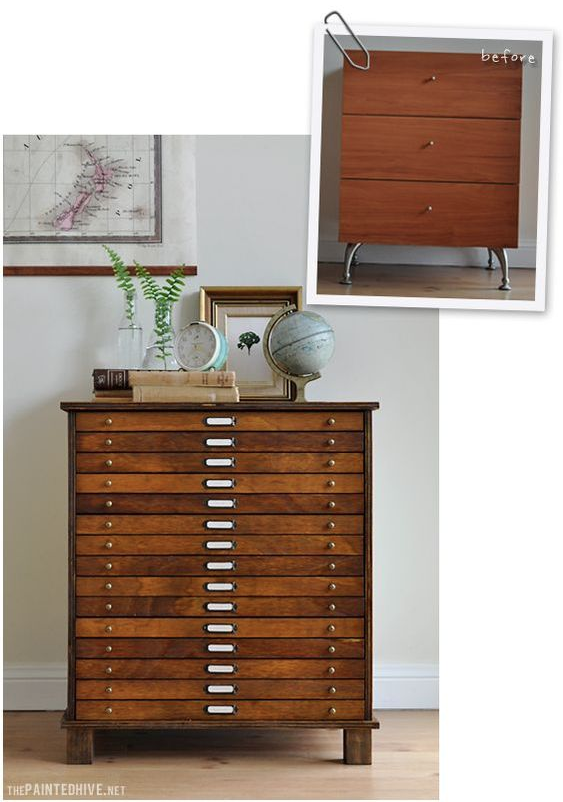
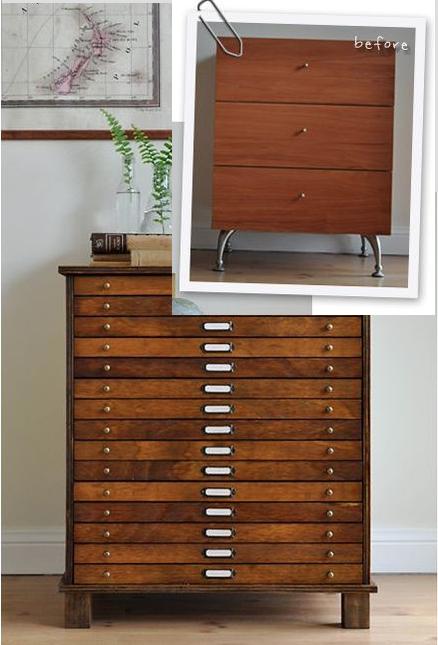
add example
1. add image
2. add link

diff --git a/js/ui.js b/js/ui.js
@@ -17,6 +17,7 @@ Ui.prototype = {
 	init: function(){
 		//example
 		var exampleImage = document.getElementById("exampleImage");
+		var exampleLink = document.getElementById("exampleLink");
 
 		var scope = this;
 
@@ -369,6 +370,8 @@ Ui.prototype = {
 
 			// example
 			exampleImage.src = "images/example/CHAIR_ALIGN_vertical.png";
+			exampleLink.href = "https://read01.com/zh-tw/eL887P.html#.XCRznc8zZBx";
+			exampleLink.text = "Bench";
 			$('.example').show();
 		});
 
@@ -378,6 +381,8 @@ Ui.prototype = {
 
 			// example
 			exampleImage.src = "images/example/CHAIR_ALIGN_horizontal.png";
+			exampleLink.href = "https://read01.com/zh-tw/eL887P.html#.XCRznc8zZBx";
+			exampleLink.text = "Bench";
 			$('.example').show();
 		});
 
@@ -387,6 +392,8 @@ Ui.prototype = {
 
 			// example
 			exampleImage.src = "images/example/CHAIR_ALIGN_flip.png";
+			exampleLink.href = "https://www.pinterest.com/pin/56646907794456800/";
+			exampleLink.text = "Bench";
 			$('.example').show();
 		});
 
@@ -410,6 +417,8 @@ Ui.prototype = {
 
 			// example
 			exampleImage.src = "images/example/CHAIR_ADD_plate.png";
+			exampleLink.href = "https://www.pinterest.com/pin/281543705299914/";
+			exampleLink.text = "Shelf";
 			$('.example').show();
 		});
 
@@ -419,6 +428,8 @@ Ui.prototype = {
 
 			// example
 			exampleImage.src = "images/example/CHAIR_ADD_hook.png";
+			exampleLink.href = "https://read01.com/zh-tw/G4o6aL.html#.XCR4Cc8zZBx";
+			exampleLink.text = "Hook";
 			$('.example').show();
 		});
 
@@ -428,6 +439,8 @@ Ui.prototype = {
 
 			// example
 			exampleImage.src = "images/example/CHAIR_ADD_hang.png";
+			exampleLink.href = "https://www.pinterest.com/pin/566186984387890581/";
+			exampleLink.text = "Swing";
 			$('.example').show();
 		});
 
@@ -438,6 +451,8 @@ Ui.prototype = {
 
 			// example
 			exampleImage.src = "images/example/CHAIR_REBUILD_seat.png";
+			exampleLink.href = "http://www.architectureartdesigns.com/15-most-amazing-before-and-after-chair-makeover-ideas/amp/";
+			exampleLink.text = "Chair";
 			$('.example').show();
 		});
 
@@ -447,6 +462,8 @@ Ui.prototype = {
 
 			// example
 			exampleImage.src = "images/example/CHAIR_REBUILD_backrest.png";
+			exampleLink.href = "http://www.architectureartdesigns.com/15-most-amazing-before-and-after-chair-makeover-ideas/amp/";
+			exampleLink.text = "Chair";
 			$('.example').show();
 		});
 
@@ -456,6 +473,8 @@ Ui.prototype = {
 
 			// example
 			exampleImage.src = "images/example/CHAIR_REBUILD_leg.png";
+			exampleLink.href = "https://www.pinterest.com/pin/83035186854913776/";
+			exampleLink.text = "Office Chair";
 			$('.example').show();
 		});
 
@@ -465,6 +484,8 @@ Ui.prototype = {
 
 			// example
 			exampleImage.src = "images/example/DRESSER_ADD_cutChair.png";
+			exampleLink.href = "http://www.foliver.com/diy/40-awesome-makeovers-clever-ways-with-tutorials-to-repurpose-old-furniture/";
+			exampleLink.text = "Chair";
 			$('.example').show();
 		});
 		$('#operation_dresser_add_add_door').click(function() {
@@ -472,6 +493,8 @@ Ui.prototype = {
 
 			// example
 			exampleImage.src = "images/example/DRESSER_ADD_addDoor.png";
+			exampleLink.href = "https://www.ikeahackers.net/2016/07/nornas-cd-lp-chest.html";
+			exampleLink.text = "Dresser";
 			$('.example').show();
 		});
 		$('#operation_dresser_add_add_leg').click(function() {
@@ -479,6 +502,8 @@ Ui.prototype = {
 
 			// example
 			exampleImage.src = "images/example/DRESSER_ADD_addLeg.png";
+			exampleLink.href = "https://www.ikeahackers.net/2016/12/ivar-grown.html";
+			exampleLink.text = "Dresser";
 			$('.example').show();
 		});
 		$('#operation_dresser_add_add_rod').click(function() {
@@ -486,6 +511,8 @@ Ui.prototype = {
 
 			// example
 			exampleImage.src = "images/example/DRESSER_ADD_addRod1.png";
+			exampleLink.href = "https://www.ikeahackers.net/2016/12/ivar-grown.html";
+			exampleLink.text = "Dresser";
 			$('.example').show();
 		});
 		$('#operation_dresser_add_add_rod_two').click(function() {
@@ -493,6 +520,8 @@ Ui.prototype = {
 
 			// example
 			exampleImage.src = "images/example/DRESSER_ADD_addRod2.png";
+			exampleLink.href = "https://www.ikeahackers.net/2013/10/twin-rasts-in-the-nursery.html";
+			exampleLink.text = "Wardrobe";
 			$('.example').show();
 		});
 		$('#operation_dresser_add_add_spice_rack').click(function() {
@@ -500,6 +529,8 @@ Ui.prototype = {
 
 			// example
 			exampleImage.src = "images/example/DRESSER_ADD_addSpiceRack.png";
+			exampleLink.href = "http://www.foliver.com/diy/40-awesome-makeovers-clever-ways-with-tutorials-to-repurpose-old-furniture/6/";
+			exampleLink.text = "Wardrobe";
 			$('.example').show();
 		});
 		$('#operation_dresser_add_add_drawer').click(function() {
@@ -507,6 +538,8 @@ Ui.prototype = {
 
 			// example
 			exampleImage.src = "images/example/DRESSER_ADD_addDrawer.png";
+			exampleLink.href = "https://www.pinterest.com/pin/397372367099234865/";
+			exampleLink.text = "Dresser";
 			$('.example').show();
 		});
 		$('#operation_dresser_add_remove_drawers').click(function() {
@@ -514,6 +547,8 @@ Ui.prototype = {
 
 			// example
 			exampleImage.src = "images/example/DRESSER_ADD_removeDrawers.png";
+			exampleLink.href = "http://www.foliver.com/diy/40-awesome-makeovers-clever-ways-with-tutorials-to-repurpose-old-furniture/28/";
+			exampleLink.text = "Dresser";
 			$('.example').show();
 		});
 
@@ -523,6 +558,8 @@ Ui.prototype = {
 
 			// example
 			exampleImage.src = "images/example/CABINET_KALLAX_chiar.png";
+			exampleLink.href = "https://lesbricolesdemel.wordpress.com/2016/03/20/inspiration-1-ikea-hack-la-gamme-kallax/";
+			exampleLink.text = "Chair";
 			$('.example').show();
 		});
 
@@ -533,6 +570,8 @@ Ui.prototype = {
 
 			// example
 			exampleImage.src = "images/example/CABINET_KALLAX_bed.png";
+			exampleLink.href = "https://www.pinterest.com/pin/596234438136893984/";
+			exampleLink.text = "Bed";
 			$('.example').show();
 		});
 
@@ -544,6 +583,8 @@ Ui.prototype = {
 
 			// example
 			exampleImage.src = "images/example/CABINET_KALLAX_table.png";
+			exampleLink.href = "https://www.pinterest.com/pin/453385887470070464/";
+			exampleLink.text = "Table";
 			$('.example').show();
 		});
 
@@ -554,6 +595,8 @@ Ui.prototype = {
 
 			// example
 			exampleImage.src = "images/example/TABLE_stack.png";
+			exampleLink.href = "https://www.ikeahackers.net/2015/11/kitchen-tables-converted-canine-condo.html";
+			exampleLink.text = "Shelf";
 			$('.example').show();
 		});
 
@@ -562,6 +605,8 @@ Ui.prototype = {
 
 			// example
 			exampleImage.src = "images/example/TABLE_flipStack.png";
+			exampleLink.href = "https://www.ikeahackers.net/2016/08/complementary-small-lack-entertainment-centre-lack-coffee-table.html";
+			exampleLink.text = "Shelf";
 			$('.example').show();
 		});
 
@@ -570,6 +615,8 @@ Ui.prototype = {
 
 			// example
 			exampleImage.src = "images/example/TABLE_addWheel.png";
+			exampleLink.href = "https://www.ikeahackers.net/2014/11/norden-tables-turn-into-rolling-kitchen-island.html";
+			exampleLink.text = "Shelf";
 			$('.example').show();
 		});
 
@@ -578,6 +625,8 @@ Ui.prototype = {
 
 			// example
 			exampleImage.src = "images/example/TABLE_addBoardOnTabletop.png";
+			exampleLink.href = "https://www.ikeahackers.net/2016/04/norden-concealed-puzzle-table.html";
+			exampleLink.text = "Table";
 			$('.example').show();
 		});
 
@@ -586,6 +635,8 @@ Ui.prototype = {
 
 			// example
 			exampleImage.src = "images/example/TABLE_addBoard.png";
+			exampleLink.href = "https://www.ikeahackers.net/2014/12/coastal-ikea-kitchen-island-from-bjorkudden-table.html";
+			exampleLink.text = "Shelf";
 			$('.example').show();
 		});
 
@@ -594,6 +645,8 @@ Ui.prototype = {
 
 			// example
 			exampleImage.src = "images/example/TABLE_addDrawer.png";
+			exampleLink.href = "https://www.ikeahackers.net/2015/10/lack-table-with-lego-storage-drawers.html";
+			exampleLink.text = "Desk";
 			$('.example').show();
 		});
 
@@ -602,6 +655,8 @@ Ui.prototype = {
 
 			// example
 			exampleImage.src = "images/example/TABLE_addRod.png";
+			exampleLink.href = "https://www.ikeahackers.net/2012/01/latt-table-equipped.html";
+			exampleLink.text = "Table";
 			$('.example').show();
 		});
 
@@ -610,6 +665,8 @@ Ui.prototype = {
 
 			// example
 			exampleImage.src = "images/example/TABLE_addSeat.png";
+			exampleLink.href = "https://www.ikeahackers.net/2014/12/hemnes-coffee-table-turned-ottoman.html";
+			exampleLink.text = "Chair";
 			$('.example').show();
 		});
 
@@ -618,6 +675,8 @@ Ui.prototype = {
 
 			// example
 			exampleImage.src = "images/example/TABLE_addDoorBoard.png";
+			exampleLink.href = "https://www.pinterest.com/pin/434386326543745294/";
+			exampleLink.text = "Table";
 			$('.example').show();
 		});
 
@@ -627,6 +686,8 @@ Ui.prototype = {
 
 			// example
 			exampleImage.src = "images/example/DESK_addBesideBoard.png";
+			exampleLink.href = "https://www.pinterest.com/pin/Ac4hkJyzj0ISaeN8xDGwSCOVbudDAWn3bO3ZEZkd7aBbfXLXYk6P04Q/";
+			exampleLink.text = "Desk";
 			$('.example').show();
 		});
 
@@ -635,6 +696,8 @@ Ui.prototype = {
 
 			// example
 			exampleImage.src = "images/example/DESK_addTopBoard.png";
+			exampleLink.href = "https://www.ikeahackers.net/2015/10/affordable-dressing-table-makeup-vanity.html";
+			exampleLink.text = "Desk";
 			$('.example').show();
 		});
 
@@ -643,6 +706,8 @@ Ui.prototype = {
 
 			// example
 			exampleImage.src = "images/example/DESK_addBottomBoard.png";
+			exampleLink.href = "https://www.pinterest.com/pin/112097478194528944/";
+			exampleLink.text = "Shelf";
 			$('.example').show();
 		});
 
@@ -651,6 +716,8 @@ Ui.prototype = {
 
 			// example
 			exampleImage.src = "images/example/DESK_addInsideBoard.png";
+			exampleLink.href = "http://www.chicaandjo.com/turn-a-sewing-table-into-a-bar-cart/";
+			exampleLink.text = "Shelf";
 			$('.example').show();
 		});
 
@@ -659,6 +726,8 @@ Ui.prototype = {
 
 			// example
 			exampleImage.src = "images/example/DESK_addWheel.png";
+			exampleLink.href = "https://www.pinterest.com/pin/288863763581244731/";
+			exampleLink.text = "Shelf";
 			$('.example').show();
 		});
 

diff --git a/index.html b/index.html
@@ -821,23 +821,25 @@
 		<div class="example">
 			<div class="ui card">
 			  	<div class="image">
-			    	<img src="images\example\CABINET_KALLAX_bed.png" id="exampleImage">
+			    	<img src="images\example\DRESSER_ADD_cutChair.png" id="exampleImage">
 			  	</div>
 			  	<div class="content">
-			    	<a class="header">Kristy</a>
-			    	<div class="meta">
+			    	<a class="header" target="_blank" rel="noopener noreferrer"href="https://www.w3schools.com" id="exampleLink">
+			    		example name
+			    	</a>
+			    	<!-- <div class="meta">
 			      		<span class="date">Joined in 2013</span>
 			    	</div>
 			    	<div class="description">
 			      		Kristy is an art director living in New York.
-			    	</div>
+			    	</div> -->
 			  	</div>
-				<div class="extra content">
+				<!-- <div class="extra content">
 					<a>
 						<i class="user icon"></i>
 						22 Friends
 					</a>
-				</div>
+				</div> -->
 			</div>
 		</div>
 		<!-- End of Hou's Block-->
